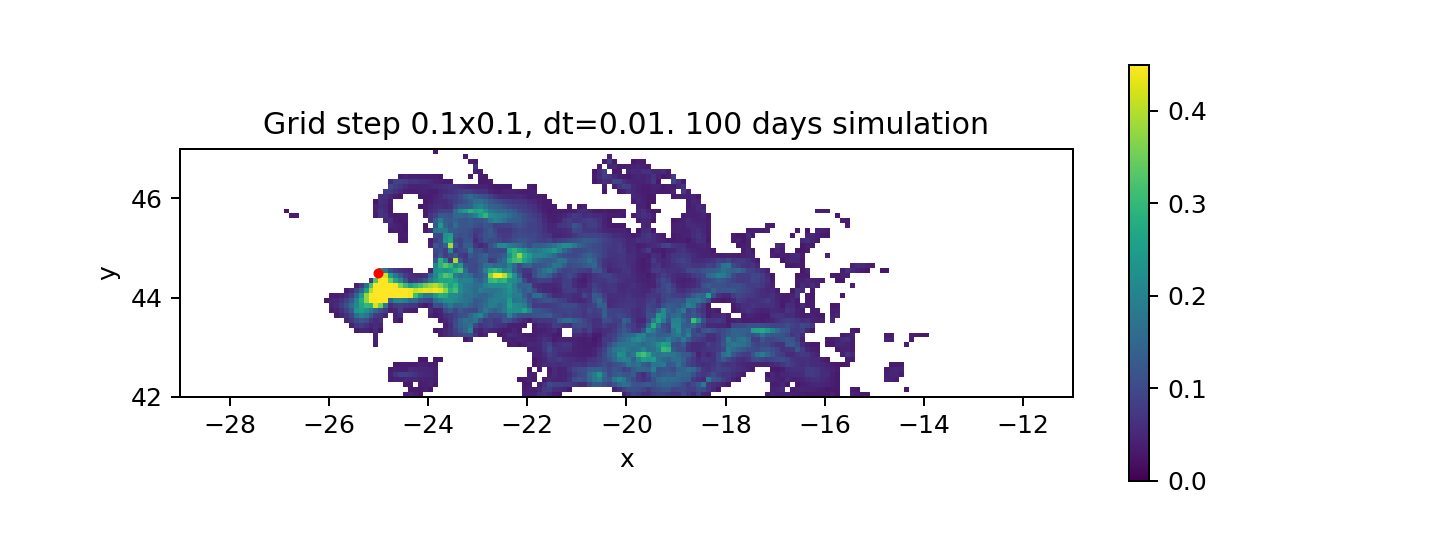
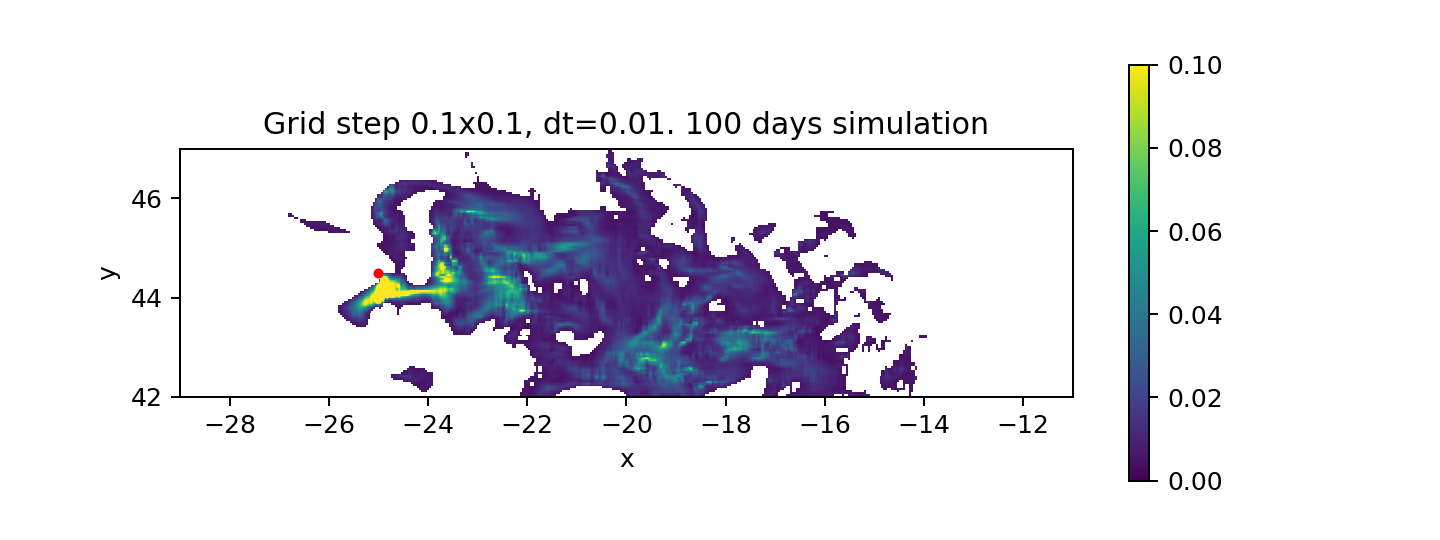
run simulation

diff --git a/scripts/PDE_model/FVMadvancedPlot.py b/scripts/PDE_model/FVMadvancedPlot.py
@@ -24,9 +24,9 @@ initialCondition = 'inflow' #'delta' or 'gauss'. See grid.ic for details, or man
 ### Related to integration domain
 x_range = [-29, -11]
 y_range = [42, 47]
-dx = 0.1 # dx =/= dy is supported. Some stepsizes will cause an idx-oo-bounds. add small perturbation to stepsize or choose differently. 
-dy = 0.1 # Ex: 0.01 breaks, 0.012 doesn't.
-dt = 0.01 # timestep between dataset swapping. scale: day.
+dx = 0.04 # dx =/= dy is supported. Some stepsizes will cause an idx-oo-bounds. add small perturbation to stepsize or choose differently. 
+dy = 0.04 # Ex: 0.01 breaks, 0.012 doesn't.
+dt = 0.001 # timestep between dataset swapping. scale: day.
 simLengthDays = 100
 
 
@@ -37,7 +37,7 @@ endTime = startTime + timeResolution * simLengthDays
 quiver_step = int(np.floor(0.4/dx))
 
 ### Dataset url. 2 are needed as the simulation range crosses a time bound
-url1 = 'http://tds.hycom.org/thredds/dodsC/GLBv0.08/expt_56.3' # No spatial resolution for the dataset is necessary; it is interpolated onto the simulation grid size.
+url = 'http://tds.hycom.org/thredds/dodsC/GLBv0.08/expt_56.3' # No spatial resolution for the dataset is necessary; it is interpolated onto the simulation grid size.
 ### Start simulation related stuff
 
 grid = Grid(x_range, y_range, dx ,dy)

diff --git a/scripts/PDE_model/plot_matrix.py b/scripts/PDE_model/plot_matrix.py
@@ -12,7 +12,7 @@ dt = 0.01
 simLengthDays = 100
 
 
-masked_matrix = np.ma.masked_less(matrix, 0.03) #5 times as much
+masked_matrix = np.ma.masked_less(matrix, 0.004) #5 times as much
 
 # Create a colormap and set the "bad" (masked) color to white or gray
 cmap = cm.viridis.copy()
@@ -22,7 +22,7 @@ plt.figure(figsize=[8, 3], dpi=180)
 plt.title(f"Grid step {dx}x{dy}, dt={dt}. {simLengthDays} days simulation")
 # Use masked matrix and custom colormap
 plt.imshow(masked_matrix, origin='lower', extent=[-29, -11, 42, 47],
-           aspect=1, vmin=0, vmax=0.45, cmap=cmap) #5 times as high
+           aspect=1, vmin=0, vmax=0.1, cmap=cmap) #5 times as high
 
 # lon_grid, lat_grid = np.meshgrid(grid.x_s, grid.y_s)
 # plt.quiver(lon_grid[::3, ::3], lat_grid[::3, ::3], vf_x[::3, ::3], vf_y[::3, ::3], scale=40, color='k')
